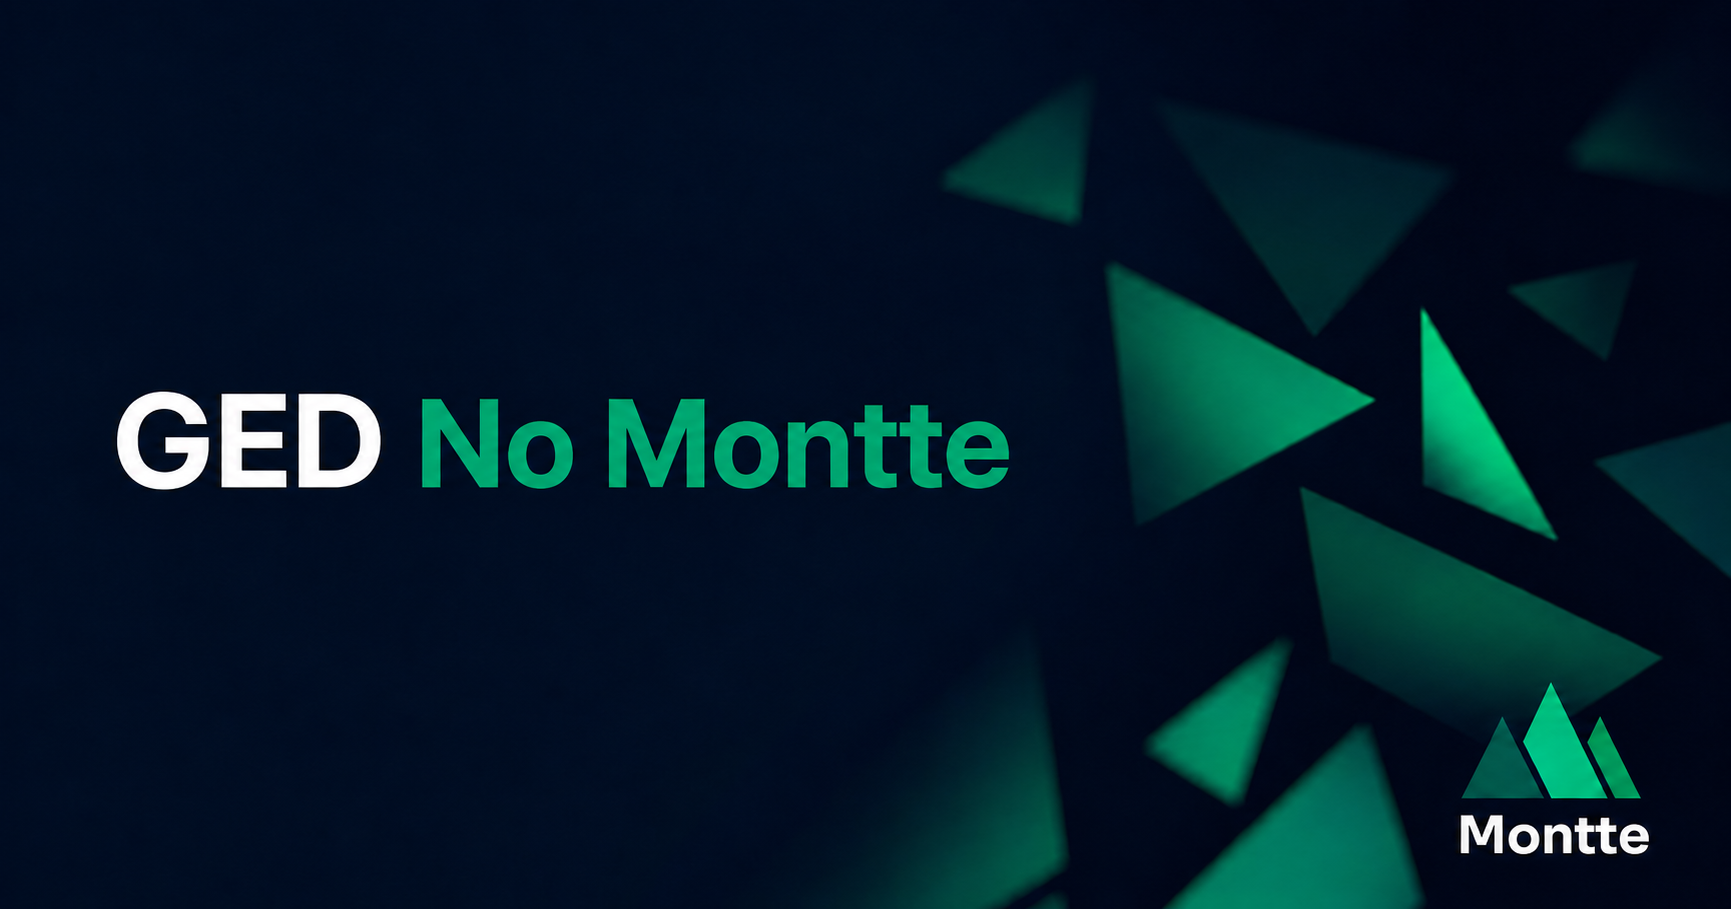
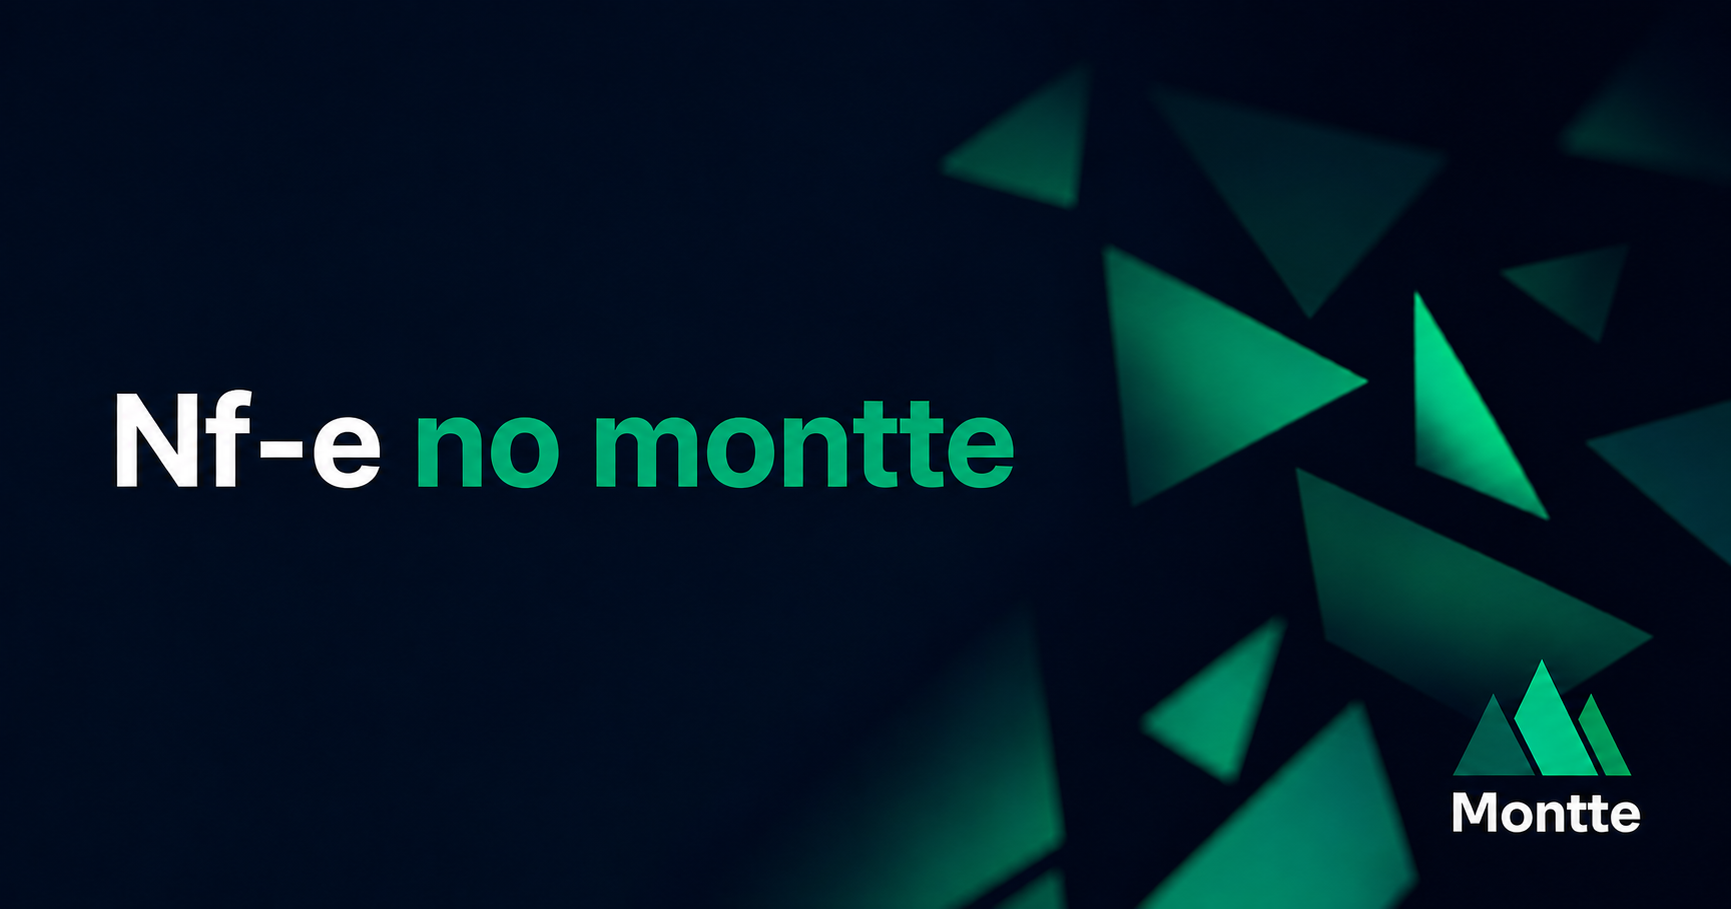
docs: simplificar post de NF-e

diff --git a/apps/landing/src/content/blog/montte-nfe.md b/apps/landing/src/content/blog/montte-nfe.md
@@ -1,6 +1,6 @@
 ---
 title: "NF-e no Montte"
-description: "O Montte ganhou a primeira base de NF-e: rota própria, tabela operacional, configuração do portal jacobina-saatri e Credenza automática quando o espaço ainda não tem credenciais fiscais."
+description: "O Montte ganhou a primeira tela de NF-e: uma área própria para acompanhar notas, configurar o portal jacobina-saatri e preparar a emissão própria dentro do produto."
 publishedAt: 2026-06-15
 author: "Manoel Neto"
 tags: ["nfe", "fiscal", "jacobina-saatri", "documentos"]
@@ -9,7 +9,7 @@ coverImage: "../../assets/blog/montte-nfe.png"
 featured: true
 readingMinutes: 2
 keyTakeaways:
-   - "NF-e agora tem rota própria no Montte."
+   - "NF-e agora tem uma área própria no Montte."
    - "O primeiro portal suportado é jacobina-saatri."
    - "A configuração fica em Configurações, Módulos, NF-e."
    - "NF-e vai entrar como Early Access Feature no PostHog enquanto estiver em fase de conceito."
@@ -19,54 +19,53 @@ faq:
    - question: "Onde configuro o portal de NF-e?"
      answer: "Em Configurações, Módulos, NF-e."
    - question: "A emissão de NF-e já está pronta?"
-     answer: "Ainda não. Este corte prepara a rota, a tabela, a configuração do portal e a base fiscal para consulta e emissão."
+     answer: "Ainda não. A NF-e entra primeiro como Early Access Feature em fase de conceito."
 ---
 
-NF-e não cabia como anexo perdido no financeiro.
+NF-e ganhou uma área própria no Montte.
 
-Ela precisava de uma área própria no Montte, com tabela, busca e configuração fiscal no lugar certo. Começamos por essa base.
+Antes de emitir nota, a gente precisava resolver o básico: onde a nota aparece, onde o portal é configurado e o que acontece quando o espaço ainda não tem credenciais fiscais.
 
-Criamos a rota `/nfe`, o schema `fiscal`, o módulo backend e a tela **Configurações > Módulos > NF-e**. A tela principal já usa o mesmo padrão das outras áreas operacionais: tabela, colunas, busca, paginação e estado vazio.
+Esse PR entrega esse começo.
 
-A emissão ainda não está pronta. Essa entrega prepara o chão.
+A tela `/nfe` já segue o padrão das outras áreas do Montte: tabela, busca, colunas, paginação e estado vazio. Não é uma tela final. É o primeiro lugar onde a operação fiscal vai morar.
 
-A NF-e vai entrar como **Early Access Feature** no PostHog enquanto estiver em fase de conceito. Quem ativar vai ver o começo do fluxo: portal, credenciais, tabela e fundação técnica antes da emissão completa.
+A NF-e vai entrar como **Early Access Feature** no PostHog enquanto estiver em fase de conceito. Quem ativar vai ver o fluxo nascendo dentro do produto, sem promessa de emissão completa no primeiro dia.
 
 ## O primeiro portal é jacobina-saatri
 
 O primeiro portal suportado é `jacobina-saatri`.
 
-A gente começou chamando a integração por um nome genérico. Cortamos. O nome que fica na UI e no banco é o nome do pacote, porque novos portais vão seguir o mesmo padrão.
+Na configuração da NF-e, o usuário escolhe o portal e informa login, senha e inscrição municipal. Só isso.
 
-Na configuração da NF-e, o usuário escolhe o portal e informa login, senha e inscrição municipal. Não tem campo de URL. A biblioteca do portal já conhece o endpoint.
+Não tem campo de URL. A biblioteca do portal já sabe o endpoint.
 
-Também removemos homologação da tela. Se alguém está configurando NF-e no produto, o fluxo padrão é produção.
+Também não tem seletor de homologação. Se alguém está configurando NF-e no Montte, o caminho padrão é produção.
 
-## A tela avisa sem ocupar a tabela
+## Se não configurou, o Montte avisa
 
-Se o espaço ainda não tem portal configurado, a rota `/nfe` abre uma Credenza.
+Quando o espaço ainda não tem portal fiscal configurado, a tela de NF-e abre uma Credenza.
 
-A Credenza diz o que falta e leva direto para **Configurações > Módulos > NF-e**. A tabela continua limpa. Nada de banner fixo no topo ocupando espaço todo dia.
+Ela diz o que falta e leva direto para **Configurações > Módulos > NF-e**.
 
-Depois que o portal estiver configurado, a tela fica pronta para o trabalho real: consultar, acompanhar e emitir nota.
+A tabela não fica com um aviso fixo no topo. Depois que o portal é configurado, a tela fica limpa para o trabalho de verdade.
 
-## O que entrou agora
+## O que entra agora
 
-Esse corte colocou as peças mínimas no produto:
+Este corte entrega:
 
-- rota **NF-e** no menu principal;
-- tabela operacional com o mesmo padrão do Vault e das telas financeiras;
-- rota **Configurações > Módulos > NF-e**;
-- schema `fiscal.settings` para portal e credenciais;
-- schema `fiscal.nfe_documents` para a lista de notas;
-- backend fiscal com `getFiscalSettings`, `updateFiscalSettings` e `listNfe`.
+- área **NF-e** no menu principal;
+- configuração do portal em **Módulos > NF-e**;
+- suporte inicial ao `jacobina-saatri`;
+- credenciais de produção por login e senha;
+- tabela preparada para listar notas.
 
-A senha não volta para o navegador. O backend só informa se já existe uma senha salva.
+A senha não volta para o navegador. O Montte só mostra que ela já foi configurada.
 
-## O que vem depois
+## Próximo passo
 
-Agora falta ligar o fluxo real do `jacobina-saatri`.
+Agora o trabalho sai do esqueleto e vai para o fluxo real do portal.
 
-A próxima etapa é consultar notas no portal, gravar os metadados em `fiscal.nfe_documents` e guardar XML e PDF no Vault. Depois disso vem emissão própria, sem SaaS fiscal separado.
+A gente abriu a issue no DFe Kit para expor consulta e artefatos do `jacobina-saatri`: XML, PDF e metadados da nota. Quando isso entrar, o Montte conecta a tela de NF-e ao portal e passa a salvar os documentos no Vault.
 
-Esse PR entrega a fundação: rota, tabela, portal configurável, credenciais de produção e base fiscal no banco.
+O objetivo continua o mesmo: emissão própria, sem SaaS fiscal separado.